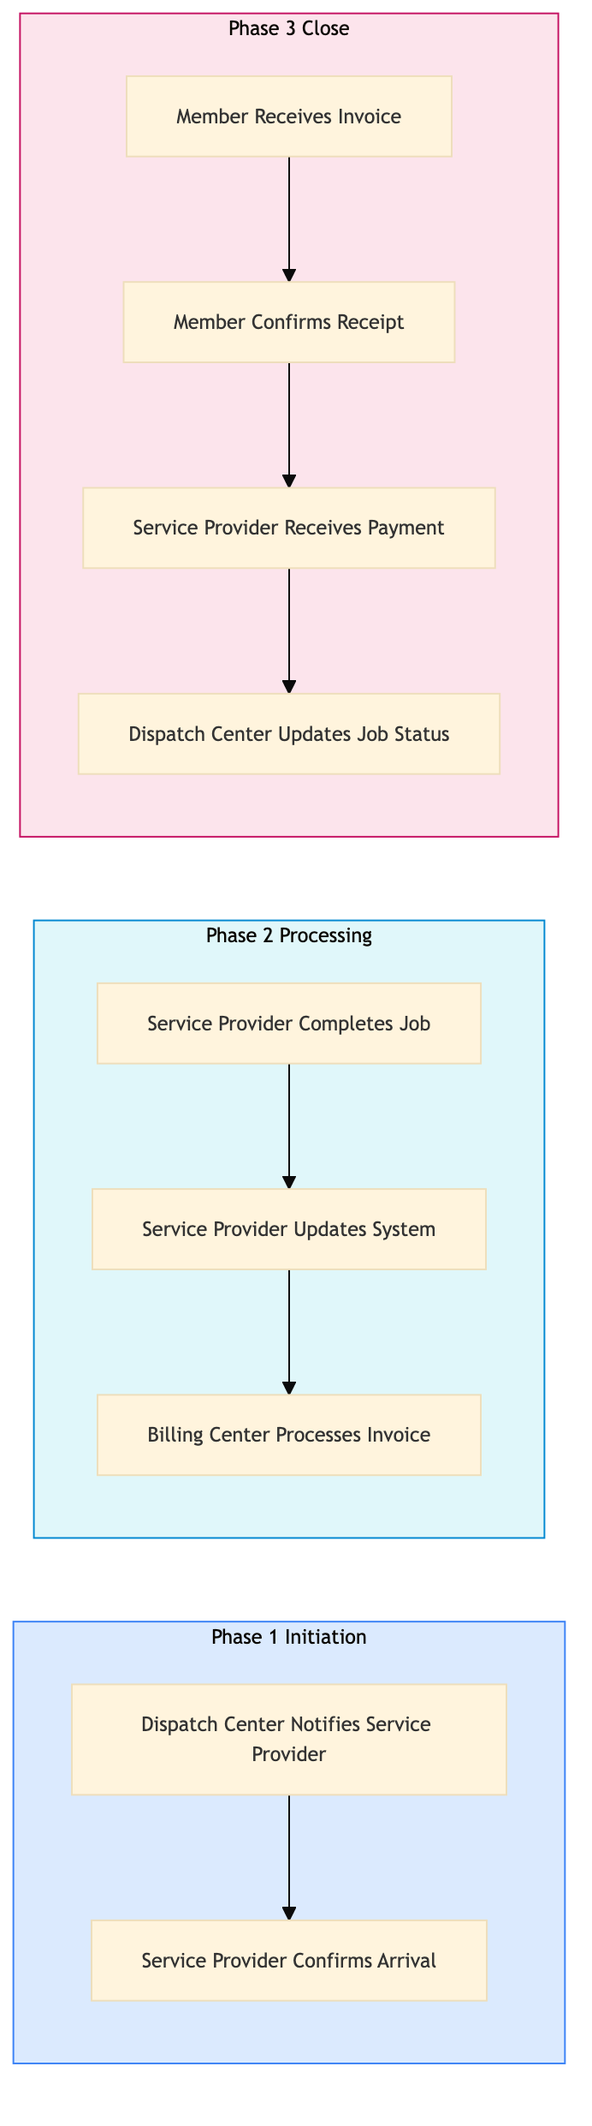
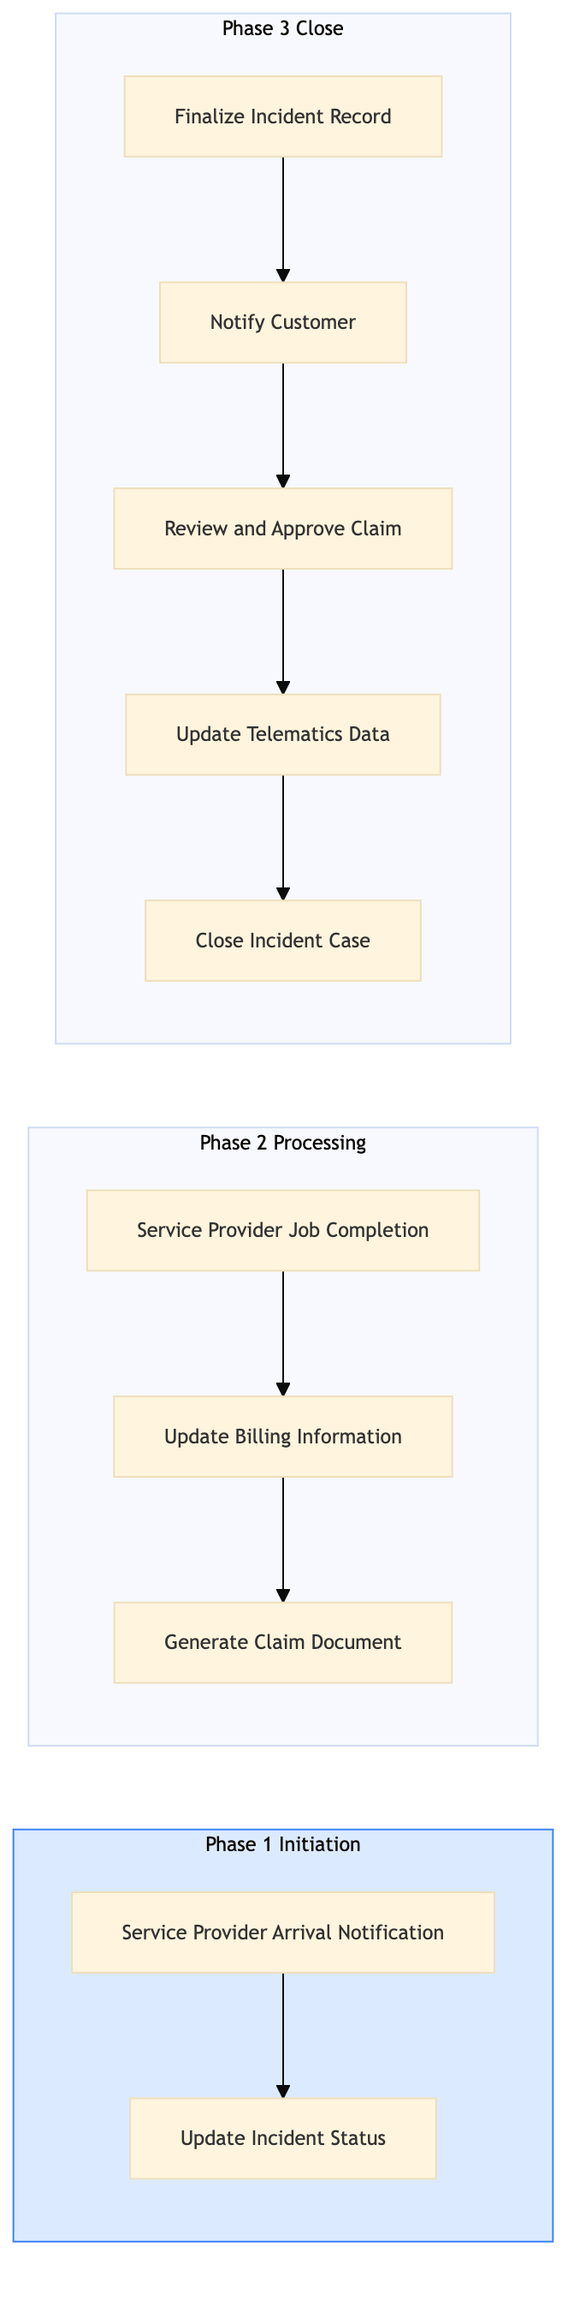
feat: add SHARED-RS-DI-06 — Service Provider On-Scene Confirmation and Job Completion

diff --git a/shared-roadside/roadside-dispatch/shared-rs-di-06.html b/shared-roadside/roadside-dispatch/shared-rs-di-06.html
@@ -23,40 +23,16 @@
     <div class="nav-l2-group">
       <a class="nav-l2-title" href="../../shared-membership/membership-enrolment/index.html">Membership Enrolment & Sales</a>
       <div class="nav-l3-list">
-        <a class="nav-l3" href="../../shared-membership/membership-enrolment/shared-mb-en-01.html">SHARED-MB-EN-01 &mdash; New Member Walk-In Enrolment (Branch)</a>
-        <a class="nav-l3" href="../../shared-membership/membership-enrolment/shared-mb-en-02.html">SHARED-MB-EN-02 &mdash; Online Membership Self-Enrolment (Web/Ap</a>
-        <a class="nav-l3" href="../../shared-membership/membership-enrolment/shared-mb-en-03.html">SHARED-MB-EN-03 &mdash; Phone Enrolment via Contact Centre</a>
-        <a class="nav-l3" href="../../shared-membership/membership-enrolment/shared-mb-en-04.html">SHARED-MB-EN-04 &mdash; Affiliate and Employer Group Enrolment</a>
-        <a class="nav-l3" href="../../shared-membership/membership-enrolment/shared-mb-en-05.html">SHARED-MB-EN-05 &mdash; Membership Tier Selection and Upsell</a>
-        <a class="nav-l3" href="../../shared-membership/membership-enrolment/shared-mb-en-06.html">SHARED-MB-EN-06 &mdash; Payment Processing and First-Year Billin</a>
-        <a class="nav-l3" href="../../shared-membership/membership-enrolment/shared-mb-en-07.html">SHARED-MB-EN-07 &mdash; Welcome Kit and Digital Card Issuance</a>
-        <a class="nav-l3" href="../../shared-membership/membership-enrolment/shared-mb-en-08.html">SHARED-MB-EN-08 &mdash; Duplicate Member Detection and Merge</a>
       </div>
     </div>
     <div class="nav-l2-group">
       <a class="nav-l2-title" href="../../shared-membership/membership-renewal/index.html">Membership Renewal & Retention</a>
       <div class="nav-l3-list">
-        <a class="nav-l3" href="../../shared-membership/membership-renewal/shared-mb-rn-01.html">SHARED-MB-RN-01 &mdash; Annual Renewal Notice Generation and Dis</a>
-        <a class="nav-l3" href="../../shared-membership/membership-renewal/shared-mb-rn-02.html">SHARED-MB-RN-02 &mdash; Auto-Renewal Processing (Credit Card on </a>
-        <a class="nav-l3" href="../../shared-membership/membership-renewal/shared-mb-rn-03.html">SHARED-MB-RN-03 &mdash; Lapsed Member Reinstatement Campaign</a>
-        <a class="nav-l3" href="../../shared-membership/membership-renewal/shared-mb-rn-04.html">SHARED-MB-RN-04 &mdash; Membership Upgrade and Tier Change Proce</a>
-        <a class="nav-l3" href="../../shared-membership/membership-renewal/shared-mb-rn-05.html">SHARED-MB-RN-05 &mdash; Associate and Household Member Add-On Pr</a>
-        <a class="nav-l3" href="../../shared-membership/membership-renewal/shared-mb-rn-06.html">SHARED-MB-RN-06 &mdash; Cancellation Request Handling and Save O</a>
-        <a class="nav-l3" href="../../shared-membership/membership-renewal/shared-mb-rn-07.html">SHARED-MB-RN-07 &mdash; Renewal Rate Review and Pricing Update</a>
-        <a class="nav-l3" href="../../shared-membership/membership-renewal/shared-mb-rn-08.html">SHARED-MB-RN-08 &mdash; Membership Winback Campaign (12-36 Month</a>
       </div>
     </div>
     <div class="nav-l2-group">
       <a class="nav-l2-title" href="../../shared-membership/member-services/index.html">Member Services & Benefits</a>
       <div class="nav-l3-list">
-        <a class="nav-l3" href="../../shared-membership/member-services/shared-mb-sv-01.html">SHARED-MB-SV-01 &mdash; Member Discount Partner Redemption</a>
-        <a class="nav-l3" href="../../shared-membership/member-services/shared-mb-sv-02.html">SHARED-MB-SV-02 &mdash; Passport Photo Service Delivery (Branch)</a>
-        <a class="nav-l3" href="../../shared-membership/member-services/shared-mb-sv-03.html">SHARED-MB-SV-03 &mdash; International Driving Permit (IDP) Proce</a>
-        <a class="nav-l3" href="../../shared-membership/member-services/shared-mb-sv-04.html">SHARED-MB-SV-04 &mdash; Notary and Document Authentication Servi</a>
-        <a class="nav-l3" href="../../shared-membership/member-services/shared-mb-sv-05.html">SHARED-MB-SV-05 &mdash; Member Portal Profile and Preferences Ma</a>
-        <a class="nav-l3" href="../../shared-membership/member-services/shared-mb-sv-06.html">SHARED-MB-SV-06 &mdash; Lost and Stolen Membership Card Replacem</a>
-        <a class="nav-l3" href="../../shared-membership/member-services/shared-mb-sv-07.html">SHARED-MB-SV-07 &mdash; Member Data Privacy Request (CCPA and PI</a>
-        <a class="nav-l3" href="../../shared-membership/member-services/shared-mb-sv-08.html">SHARED-MB-SV-08 &mdash; Member Satisfaction Survey and NPS Track</a>
       </div>
     </div>
   </div>
@@ -351,7 +327,7 @@
           <span class="pid-badge org-badge-shared">SHARED</span>
           SHARED-RS-DI-06 &mdash; Service Provider On-Scene Confirmation and Job Completion
         </h1>
-        <p>This process involves confirming the presence of a service provider on scene and completing the job for roadside assistance services.</p>
+        <p>This process involves confirming the arrival of a service provider at an incident scene and completing the job. It ensures that all necessary documentation is completed accurately and efficiently.</p>
       </div>
 
       <!-- BPMN Diagram -->
@@ -377,10 +353,10 @@
             <tr><th>L1 Domain</th><td>Roadside Assistance</td></tr>
             <tr><th>L2 Process</th><td>Dispatch Operations</td></tr>
             <tr><th>L3 Name</th><td>Service Provider On-Scene Confirmation and Job Completion</td></tr>
-            <tr><th>Trigger</th><td>Service provider arrives at the incident location as dispatched by the dispatch center.</td></tr>
-            <tr><th>Outcome</th><td>Successful confirmation of the service provider's arrival and completion of the job, with accurate documentation and billing.</td></tr>
-            <tr><th>Org Notes</th><td>CAA SCO may have additional compliance requirements due to FSRA regulation that AAA Northeast does not have.</td></tr>
-            <tr><th>Systems</th><td><span class="sys-tag sap">SAP S/4HANA</span> <span class="sys-tag agero">Agero Swoop dispatch</span> <span class="sys-tag guidewire">BillingCenter</span></td></tr>
+            <tr><th>Trigger</th><td>Notification from the service provider indicating their arrival at the scene</td></tr>
+            <tr><th>Outcome</th><td>Successful confirmation of the service provider's arrival and completion of the job with all required documents finalized.</td></tr>
+            <tr><th>Org Notes</th><td>CAA SCO uses a different telematics system (CAA Connect) compared to AAA Northeast's DriveAssist. Additionally, CAA SCO has stricter regulatory requirements due to FSRA regulations.</td></tr>
+            <tr><th>Systems</th><td><span class="sys-tag agero">Agero Swoop dispatch</span> <span class="sys-tag sap">SAP S/4HANA</span> <span class="sys-tag guidewire">Guidewire ClaimCenter</span> <span class="sys-tag salesforce">Salesforce (Einstein AI, Agentforce)</span> <span class="sys-tag driveassist">DriveAssist telematics</span> <span class="sys-tag caa-connect">CAA Connect telematics</span></td></tr>
           </table>
         </div>
       </div>
@@ -401,109 +377,121 @@
               <tbody>
         <tr>
           <td class="step-num">1.1</td>
-          <td>Dispatch Center Notifies Service Provider</td>
+          <td>Service Provider Arrival Notification</td>
           <td>Dispatcher</td>
-          <td><span class="sys-tag sap">SAP S/4HANA, Agero Swoop dispatch</span></td>
-          <td>Incident details from the AAA App or telematics system</td>
-          <td>Notification to service provider with job details</td>
-          <td>Response time within 5 minutes of dispatch notification</td>
-          <td>Delayed notifications affecting service provider's availability</td>
+          <td><span class="sys-tag agero">Agero Swoop dispatch</span></td>
+          <td>Notification from service provider</td>
+          <td>Confirmation of arrival in system</td>
+          <td>Response time to confirm arrival < 5 minutes</td>
+          <td>Delayed confirmation affecting customer satisfaction</td>
           <td>N</td>
           <td><span class="exception-y">Y</span></td>
         </tr>
         <tr>
           <td class="step-num">1.2</td>
-          <td>Service Provider Confirms Arrival</td>
-          <td>Service Provider</td>
-          <td><span class="sys-tag sap">SAP S/4HANA, Agero Swoop dispatch</span></td>
-          <td>Confirmation from service provider's mobile app or phone call</td>
-          <td>Arrival confirmation recorded in the system</td>
-          <td>Arrival confirmation within 10 minutes of notification</td>
-          <td>Missed confirmations leading to delayed service</td>
+          <td>Update Incident Status</td>
+          <td>Dispatcher</td>
+          <td><span class="sys-tag sap">SAP S/4HANA</span></td>
+          <td>Confirmation of arrival</td>
+          <td>Updated incident status in SAP</td>
+          <td>Incident status update within 1 minute</td>
+          <td>Incorrect status updates leading to miscommunication</td>
           <td>N</td>
           <td><span class="exception-y">Y</span></td>
         </tr>
         <tr>
           <td class="step-num">2.1</td>
-          <td>Service Provider Completes Job</td>
+          <td>Service Provider Job Completion</td>
           <td>Service Provider</td>
-          <td><span class="sys-tag sap">SAP S/4HANA, Agero Swoop dispatch</span></td>
-          <td>Job completion details from the service provider's mobile app or phone call</td>
-          <td>Completed job recorded in the system</td>
-          <td>Job completion within 30 minutes of arrival</td>
-          <td>Extended job durations affecting member satisfaction</td>
+          <td><span class="sys-tag agero">Agero Swoop dispatch</span></td>
+          <td>Job completion details</td>
+          <td>Completed job report in system</td>
+          <td>Job completion report submitted within 30 minutes</td>
+          <td>Delayed job reports affecting billing and claims processing</td>
           <td>N</td>
           <td><span class="exception-y">Y</span></td>
         </tr>
         <tr>
           <td class="step-num">2.2</td>
-          <td>Service Provider Updates System</td>
-          <td>Service Provider</td>
-          <td><span class="sys-tag sap">SAP S/4HANA, Agero Swoop dispatch</span></td>
-          <td>Job completion details</td>
-          <td>Updated job status and documentation in the system</td>
-          <td>100% accurate job updates within 5 minutes of completion</td>
-          <td>Inaccurate or delayed updates leading to billing errors</td>
+          <td>Update Billing Information</td>
+          <td>Billing Specialist</td>
+          <td><span class="sys-tag sap">SAP S/4HANA</span></td>
+          <td>Completed job report</td>
+          <td>Updated billing record in SAP</td>
+          <td>Billing information updated within 1 hour</td>
+          <td>Incorrect billing data leading to disputes</td>
           <td>N</td>
           <td><span class="exception-y">Y</span></td>
         </tr>
         <tr>
           <td class="step-num">2.3</td>
-          <td>Billing Center Processes Invoice</td>
-          <td>Billing Specialist</td>
-          <td><span class="sys-tag guidewire">SAP S/4HANA, BillingCenter</span></td>
-          <td>Completed job details from the system</td>
-          <td>Generated invoice for the member</td>
-          <td>Invoice generation within 24 hours of job completion</td>
-          <td>Delayed invoicing affecting cash flow</td>
+          <td>Generate Claim Document</td>
+          <td>Claims Adjuster</td>
+          <td><span class="sys-tag guidewire">Guidewire ClaimCenter</span></td>
+          <td>Billing record and job details</td>
+          <td>Claim document in Guidewire</td>
+          <td>Claim document generated within 2 hours</td>
+          <td>Missing or incomplete claim documents</td>
           <td>N</td>
           <td><span class="exception-y">Y</span></td>
         </tr>
         <tr>
           <td class="step-num">3.1</td>
-          <td>Member Receives Invoice</td>
-          <td>Billing Specialist</td>
-          <td><span class="sys-tag guidewire">SAP S/4HANA, BillingCenter</span></td>
-          <td>Generated invoice</td>
-          <td>Invoice sent to the member via email or postal mail</td>
-          <td>100% successful delivery of invoices within 3 business days</td>
-          <td>Undelivered invoices leading to payment delays</td>
+          <td>Finalize Incident Record</td>
+          <td>Dispatcher</td>
+          <td><span class="sys-tag sap">SAP S/4HANA</span></td>
+          <td>Claim document and billing information</td>
+          <td>Finalized incident record in SAP</td>
+          <td>Incident record finalized within 30 minutes of claim generation</td>
+          <td>Incomplete or inaccurate final records</td>
           <td>N</td>
           <td><span class="exception-y">Y</span></td>
         </tr>
         <tr>
           <td class="step-num">3.2</td>
-          <td>Member Confirms Receipt</td>
-          <td>Member</td>
-          <td><span class="sys-tag guidewire">AAA App, BillingCenter</span></td>
-          <td>Confirmation from the member via email or app</td>
-          <td>Receipt confirmation recorded in the system</td>
-          <td>95% receipt confirmations within 7 days of invoice delivery</td>
-          <td>Non-confirmation affecting billing accuracy</td>
+          <td>Notify Customer</td>
+          <td>Customer Service Representative</td>
+          <td><span class="sys-tag salesforce">Salesforce (Einstein AI, Agentforce)</span></td>
+          <td>Finalized incident record</td>
+          <td>Notification to customer</td>
+          <td>Customer notification sent within 1 hour of finalization</td>
+          <td>Delayed notifications affecting customer trust</td>
           <td>N</td>
           <td><span class="exception-y">Y</span></td>
         </tr>
         <tr>
           <td class="step-num">3.3</td>
-          <td>Service Provider Receives Payment</td>
-          <td>Billing Specialist</td>
-          <td><span class="sys-tag guidewire">SAP S/4HANA, BillingCenter</span></td>
-          <td>Payment from the member</td>
-          <td>Payment recorded in the system</td>
-          <td>100% successful payments within 30 days of invoice delivery</td>
-          <td>Non-payment affecting service provider's revenue</td>
+          <td>Review and Approve Claim</td>
+          <td>Claims Adjuster</td>
+          <td><span class="sys-tag guidewire">Guidewire ClaimCenter</span></td>
+          <td>Finalized incident record</td>
+          <td>Approved claim in Guidewire</td>
+          <td>Claim approval within 24 hours</td>
+          <td>Delayed claim approvals affecting cash flow</td>
+          <td><span class="decision-y">Y</span></td>
+          <td>N</td>
+        </tr>
+        <tr>
+          <td class="step-num">3.4</td>
+          <td>Update Telematics Data</td>
+          <td>Telematics Specialist</td>
+          <td><span class="sys-tag driveassist">DriveAssist telematics (AAA) / CAA Connect telematics (CAA SCO)</span></td>
+          <td>Incident details and job completion</td>
+          <td>Updated telematics data in system</td>
+          <td>Telematics data updated within 48 hours</td>
+          <td>Inaccurate telematics data affecting future dispatch decisions</td>
           <td>N</td>
           <td><span class="exception-y">Y</span></td>
         </tr>
         <tr>
-          <td class="step-num">3.4</td>
-          <td>Dispatch Center Updates Job Status</td>
+          <td class="step-num">3.5</td>
+          <td>Close Incident Case</td>
           <td>Dispatcher</td>
-          <td><span class="sys-tag sap">SAP S/4HANA, Agero Swoop dispatch</span></td>
-          <td>Payment confirmation from the system</td>
-          <td>Final job status updated in the system</td>
-          <td>100% accurate final job status updates within 24 hours of payment</td>
-          <td>Inaccurate job statuses affecting reporting</td>
+          <td><span class="sys-tag sap">SAP S/4HANA</span></td>
+          <td>Approved claim and updated telematics data</td>
+          <td>Closed incident case in SAP</td>
+          <td>Incident case closed within 2 hours of approval</td>
+          <td>Open cases affecting system performance</td>
           <td>N</td>
           <td><span class="exception-y">Y</span></td>
         </tr>
@@ -518,9 +506,9 @@
         <div class="card-header">&#x1F4CA; KPIs &amp; Risk Register</div>
         <div class="card-body">
           <p class="mb-8"><strong>KPIs</strong></p>
-          <div class="kpi-list mb-8"><span class="kpi-pill">Response time within 5 minutes of dispatch notification</span> <span class="kpi-pill">Arrival confirmation within 10 minutes of notification</span> <span class="kpi-pill">Job completion within 30 minutes of arrival</span> <span class="kpi-pill">100% accurate job updates within 5 minutes of completion</span> <span class="kpi-pill">Invoice generation within 24 hours of job completion</span> <span class="kpi-pill">100% successful delivery of invoices within 3 business days</span> <span class="kpi-pill">95% receipt confirmations within 7 days of invoice delivery</span> <span class="kpi-pill">100% successful payments within 30 days of invoice delivery</span> <span class="kpi-pill">100% accurate final job status updates within 24 hours of payment</span></div>
+          <div class="kpi-list mb-8"><span class="kpi-pill">Response time to confirm arrival < 5 minutes</span> <span class="kpi-pill">Incident status update within 1 minute</span> <span class="kpi-pill">Job completion report submitted within 30 minutes</span> <span class="kpi-pill">Billing information updated within 1 hour</span> <span class="kpi-pill">Claim document generated within 2 hours</span> <span class="kpi-pill">Incident record finalized within 30 minutes of claim generation</span> <span class="kpi-pill">Customer notification sent within 1 hour of finalization</span> <span class="kpi-pill">Claim approval within 24 hours</span> <span class="kpi-pill">Telematics data updated within 48 hours</span> <span class="kpi-pill">Incident case closed within 2 hours of approval</span></div>
           <p class="mb-8" style="margin-top:16px"><strong>Key Risks</strong></p>
-          <div class="kpi-list"><span class="risk-pill">Delayed notifications affecting service provider's availability</span> <span class="risk-pill">Missed confirmations leading to delayed service</span> <span class="risk-pill">Extended job durations affecting member satisfaction</span> <span class="risk-pill">Inaccurate or delayed updates leading to billing errors</span> <span class="risk-pill">Delayed invoicing affecting cash flow</span> <span class="risk-pill">Undelivered invoices leading to payment delays</span> <span class="risk-pill">Non-confirmation affecting billing accuracy</span> <span class="risk-pill">Non-payment affecting service provider's revenue</span> <span class="risk-pill">Inaccurate job statuses affecting reporting</span></div>
+          <div class="kpi-list"><span class="risk-pill">Delayed service provider arrival notifications</span> <span class="risk-pill">Incorrect incident status updates</span> <span class="risk-pill">Delays in job completion reports</span> <span class="risk-pill">Errors in billing information updates</span> <span class="risk-pill">Incomplete claim document generation</span> <span class="risk-pill">Inaccurate final incident record updates</span> <span class="risk-pill">Late customer notifications</span> <span class="risk-pill">Prolonged claim approval processes</span> <span class="risk-pill">Inaccuracies in telematics data updates</span> <span class="risk-pill">Open incident cases affecting system performance</span></div>
         </div>
       </div>
 

diff --git a/shared-roadside/roadside-dispatch/index.html b/shared-roadside/roadside-dispatch/index.html
@@ -163,6 +163,7 @@
         <a class="nav-l3" href="../../shared-roadside/roadside-dispatch/shared-rs-di-02.html">SHARED-RS-DI-02 &mdash; Digital Request Intake (App and Web Self</a>
         <a class="nav-l3" href="../../shared-roadside/roadside-dispatch/shared-rs-di-03.html">SHARED-RS-DI-03 &mdash; Breakdown Type Classification and Servic</a>
         <a class="nav-l3" href="../../shared-roadside/roadside-dispatch/shared-rs-di-04.html">SHARED-RS-DI-04 &mdash; Service Provider Dispatch via Agero Swoo</a>
+        <a class="nav-l3" href="../../shared-roadside/roadside-dispatch/shared-rs-di-05.html">SHARED-RS-DI-05 &mdash; Real-Time GPS Tracking and ETA Communica</a>
       </div>
     </div>
     <div class="nav-l2-group">
@@ -319,7 +320,7 @@
           <a href="../index.html">Roadside Assistance</a>
         </div>
         <h1>🚨 Dispatch Operations</h1>
-        <p>4 of 8 processes complete</p>
+        <p>5 of 8 processes complete</p>
       </div>
       <div class="card">
         <div class="card-header">Process List</div>
@@ -330,7 +331,7 @@
 <tr><td><a href="shared-rs-di-02.html">SHARED-RS-DI-02</a></td><td>Digital Request Intake (App and Web Self-Serve)</td><td><span style="color:#16a34a;font-weight:700">&#x2705; Complete</span></td></tr>
 <tr><td><a href="shared-rs-di-03.html">SHARED-RS-DI-03</a></td><td>Breakdown Type Classification and Service Code Assignment</td><td><span style="color:#16a34a;font-weight:700">&#x2705; Complete</span></td></tr>
 <tr><td><a href="shared-rs-di-04.html">SHARED-RS-DI-04</a></td><td>Service Provider Dispatch via Agero Swoop</td><td><span style="color:#16a34a;font-weight:700">&#x2705; Complete</span></td></tr>
-<tr><td>SHARED-RS-DI-05</td><td>Real-Time GPS Tracking and ETA Communication to Member</td><td><span style="color:#94a3b8">&#x23F3; Queued</span></td></tr>
+<tr><td><a href="shared-rs-di-05.html">SHARED-RS-DI-05</a></td><td>Real-Time GPS Tracking and ETA Communication to Member</td><td><span style="color:#16a34a;font-weight:700">&#x2705; Complete</span></td></tr>
 <tr><td>SHARED-RS-DI-06</td><td>Service Provider On-Scene Confirmation and Job Completion</td><td><span style="color:#94a3b8">&#x23F3; Queued</span></td></tr>
 <tr><td>SHARED-RS-DI-07</td><td>Post-Service Quality Survey (NPS)</td><td><span style="color:#94a3b8">&#x23F3; Queued</span></td></tr>
 <tr><td>SHARED-RS-DI-08</td><td>Dispatch Performance Monitoring (SLA and Swoop Dashboard)</td><td><span style="color:#94a3b8">&#x23F3; Queued</span></td></tr>

diff --git a/index.html b/index.html
@@ -163,6 +163,7 @@
         <a class="nav-l3" href="shared-roadside/roadside-dispatch/shared-rs-di-02.html">SHARED-RS-DI-02 &mdash; Digital Request Intake (App and Web Self</a>
         <a class="nav-l3" href="shared-roadside/roadside-dispatch/shared-rs-di-03.html">SHARED-RS-DI-03 &mdash; Breakdown Type Classification and Servic</a>
         <a class="nav-l3" href="shared-roadside/roadside-dispatch/shared-rs-di-04.html">SHARED-RS-DI-04 &mdash; Service Provider Dispatch via Agero Swoo</a>
+        <a class="nav-l3" href="shared-roadside/roadside-dispatch/shared-rs-di-05.html">SHARED-RS-DI-05 &mdash; Real-Time GPS Tracking and ETA Communica</a>
       </div>
     </div>
     <div class="nav-l2-group">
@@ -319,11 +320,11 @@
       </div>
 
       <div class="stats-bar">
-        <div class="stat-card"><div class="stat-num">72</div><div class="stat-label">Processes Complete</div></div>
+        <div class="stat-card"><div class="stat-num">73</div><div class="stat-label">Processes Complete</div></div>
         <div class="stat-card"><div class="stat-num">268</div><div class="stat-label">Total Processes</div></div>
         <div class="stat-card"><div class="stat-num">34</div><div class="stat-label">AAA Complete</div></div>
         <div class="stat-card"><div class="stat-num caa-red">34</div><div class="stat-label">CAA Complete</div></div>
-        <div class="stat-card"><div class="stat-num">4</div><div class="stat-label">Shared Complete</div></div>
+        <div class="stat-card"><div class="stat-num">5</div><div class="stat-label">Shared Complete</div></div>
       </div>
 
       <div class="domain-grid">
@@ -357,7 +358,7 @@
         <span class="nav-org-dot shared" style="display:inline-block;margin-right:4px"></span>
         SHARED
       </p>
-      <p class="card-count">4 / 24 processes complete</p>
+      <p class="card-count">5 / 24 processes complete</p>
     </div>
     <div class="domain-card org-shared">
       <h3><a href="shared-travel/index.html">✈ Travel Agency & Packages</a></h3>

diff --git a/shared-roadside/index.html b/shared-roadside/index.html
@@ -163,6 +163,7 @@
         <a class="nav-l3" href="../shared-roadside/roadside-dispatch/shared-rs-di-02.html">SHARED-RS-DI-02 &mdash; Digital Request Intake (App and Web Self</a>
         <a class="nav-l3" href="../shared-roadside/roadside-dispatch/shared-rs-di-03.html">SHARED-RS-DI-03 &mdash; Breakdown Type Classification and Servic</a>
         <a class="nav-l3" href="../shared-roadside/roadside-dispatch/shared-rs-di-04.html">SHARED-RS-DI-04 &mdash; Service Provider Dispatch via Agero Swoo</a>
+        <a class="nav-l3" href="../shared-roadside/roadside-dispatch/shared-rs-di-05.html">SHARED-RS-DI-05 &mdash; Real-Time GPS Tracking and ETA Communica</a>
       </div>
     </div>
     <div class="nav-l2-group">
@@ -316,11 +317,11 @@
       <div class="page-header">
         <div class="breadcrumb"><a href="../index.html">Home</a></div>
         <h1>🚨 Roadside Assistance</h1>
-        <p>4 of 24 processes complete across 3 process groups</p>
+        <p>5 of 24 processes complete across 3 process groups</p>
       </div>
       <div class="domain-grid">    <div class="domain-card org-shared">
       <h3><a href="roadside-dispatch/index.html">Dispatch Operations</a></h3>
-      <p class="card-meta">4/8 processes complete</p>
+      <p class="card-meta">5/8 processes complete</p>
     </div>
     <div class="domain-card org-shared">
       <h3><a href="roadside-service-delivery/index.html">Roadside Service Delivery</a></h3>
